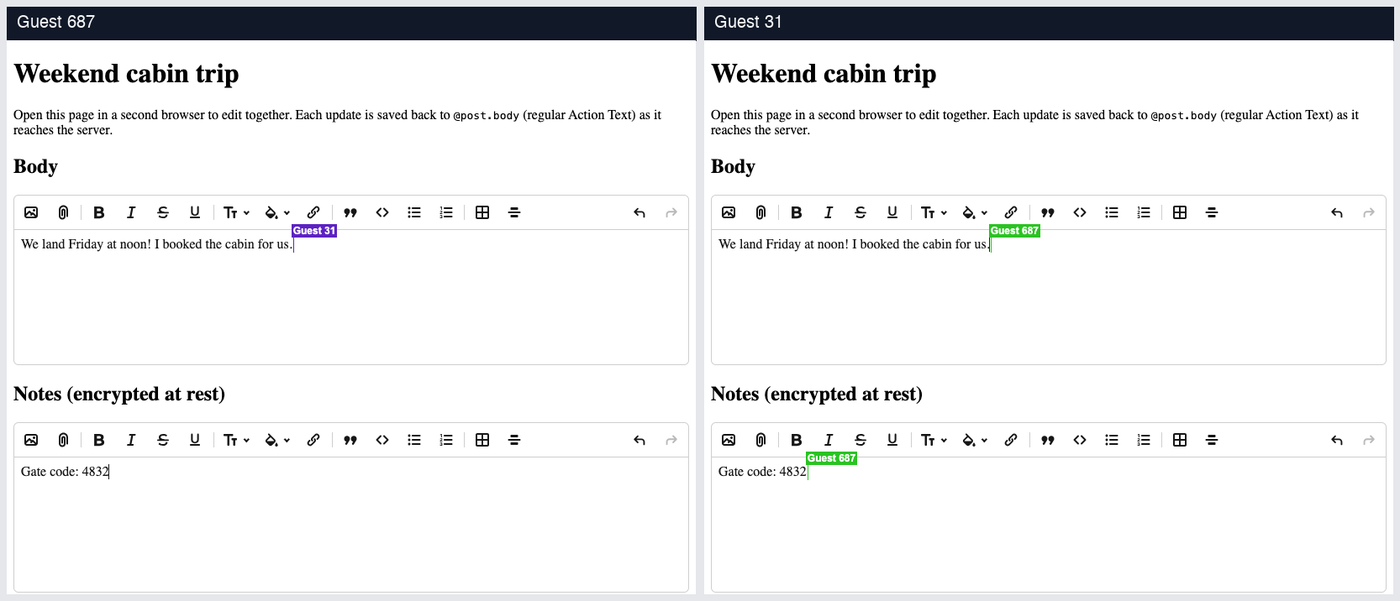
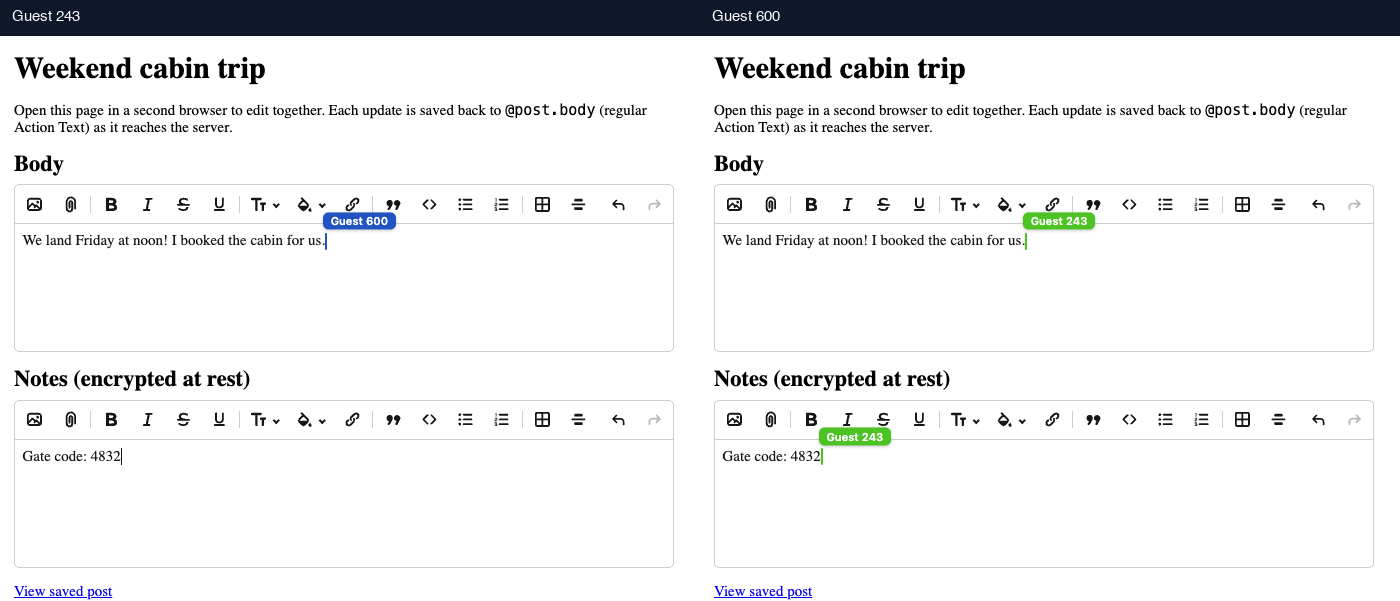
Demo accuracy pass against 0.6.0
The y-tables migration matches yrby's current generator template again:
the document reference drops its single-column index for the composite
(document_id, pending) index, and the schema is regenerated from the
migrations. The lock records the path gem at 0.6.0. The collab GIF and
edit screenshot are recaptured with the styled cursors; the show
screenshot has no cursor UI and stands.

Changed region(s): [[0.0, 0.0, 1.0, 1.0]]

diff --git a/demo/db/migrate/20260803234613_create_y_tables.rb b/demo/db/migrate/20260803234613_create_y_tables.rb
@@ -14,10 +14,11 @@ class CreateYTables < ActiveRecord::Migration[8.1]
     end
 
     create_table :y_document_updates do |t|
-      t.references :document, null: false, foreign_key: { to_table: :y_documents }
+      t.references :document, null: false, foreign_key: { to_table: :y_documents }, index: false
       t.binary :payload, null: false, limit: 16.megabytes - 1
       t.boolean :pending, null: false, default: false
       t.datetime :created_at, null: false
+      t.index %i[document_id pending]
     end
   end
 end

diff --git a/demo/db/schema.rb b/demo/db/schema.rb
@@ -60,7 +60,7 @@ ActiveRecord::Schema[8.1].define(version: 2026_08_03_234613) do
     t.integer "document_id", null: false
     t.binary "payload", limit: 16777215, null: false
     t.boolean "pending", default: false, null: false
-    t.index ["document_id"], name: "index_y_document_updates_on_document_id"
+    t.index ["document_id", "pending"], name: "index_y_document_updates_on_document_id_and_pending"
   end
 
   create_table "y_documents", force: :cascade do |t|
